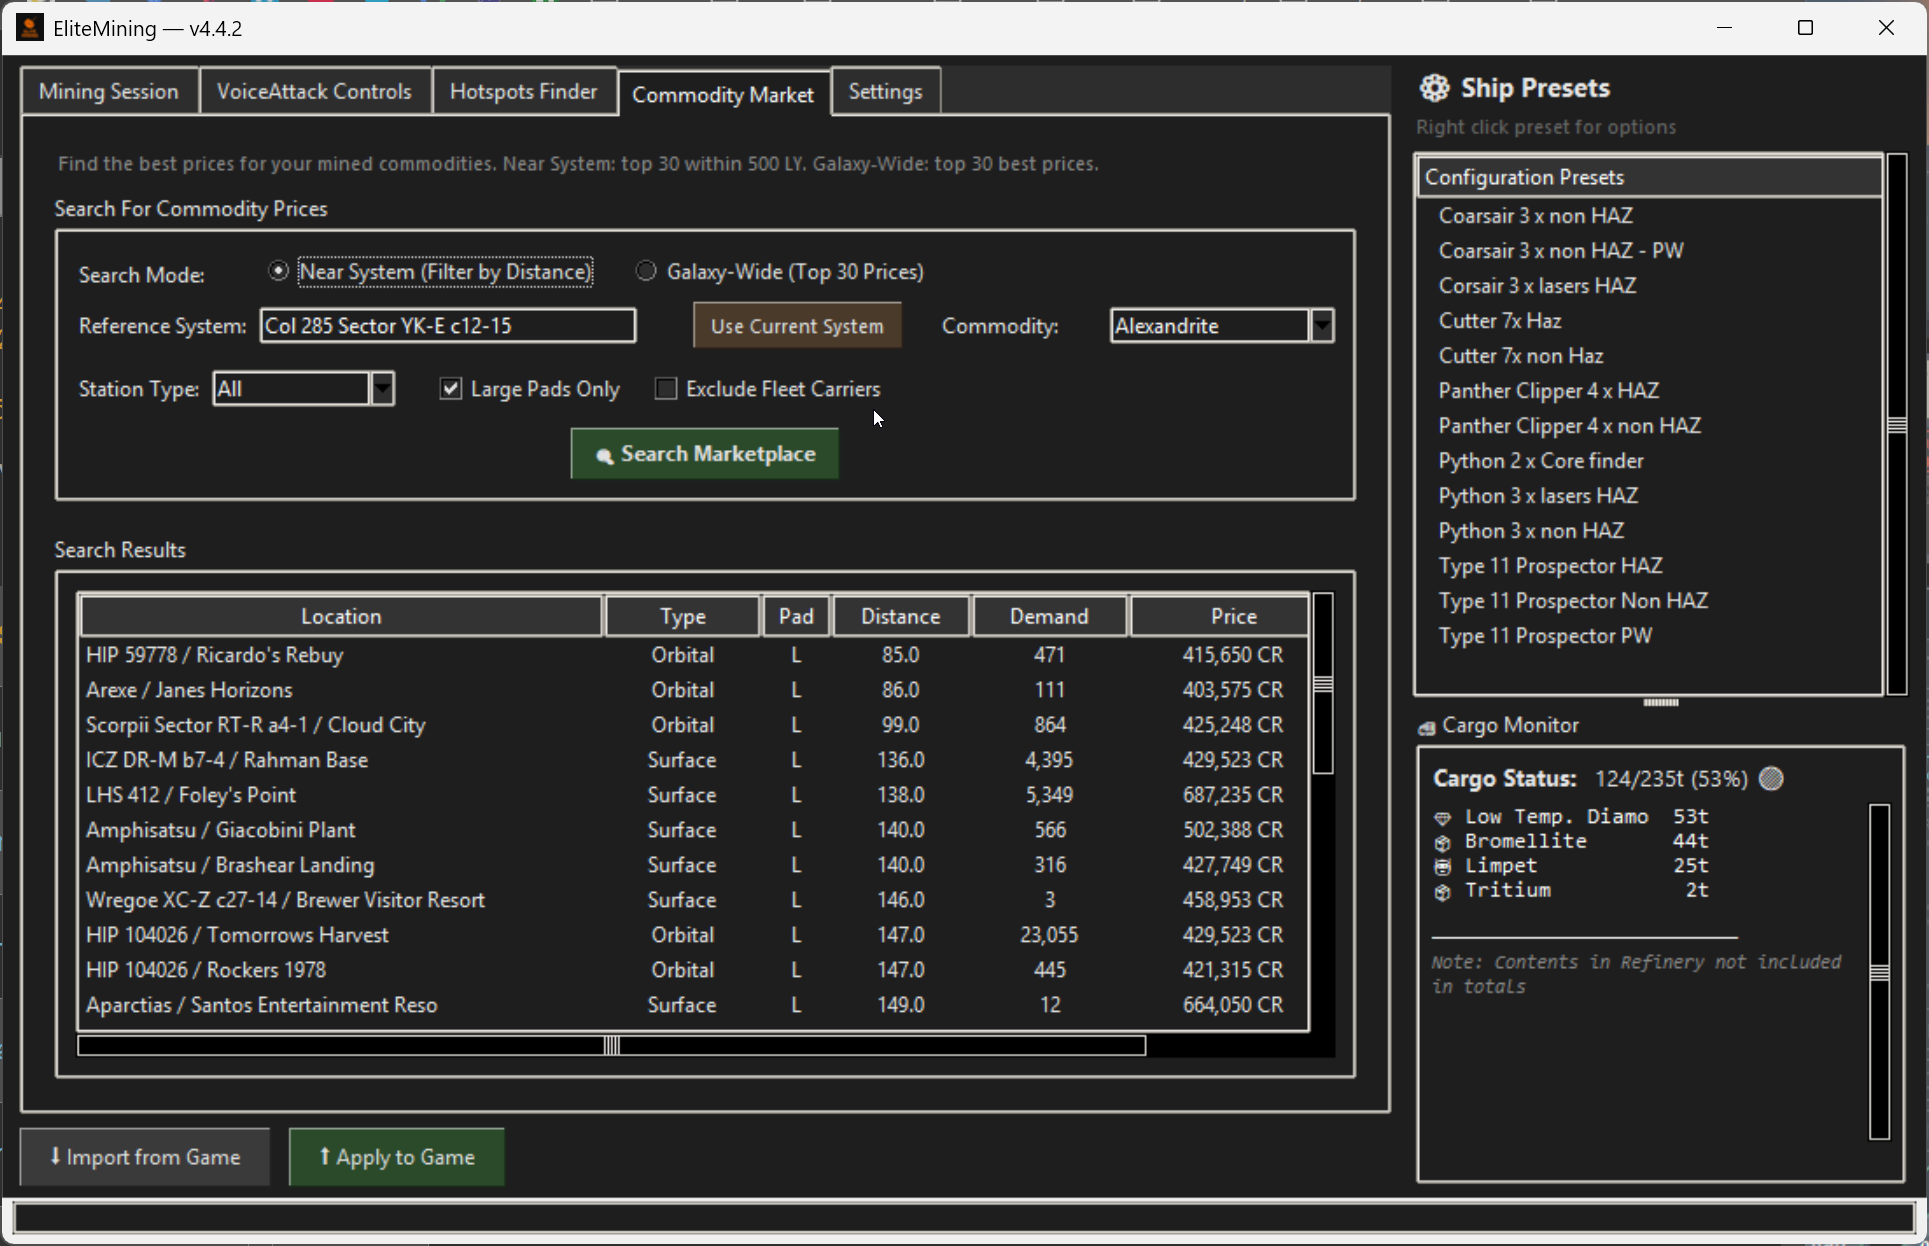
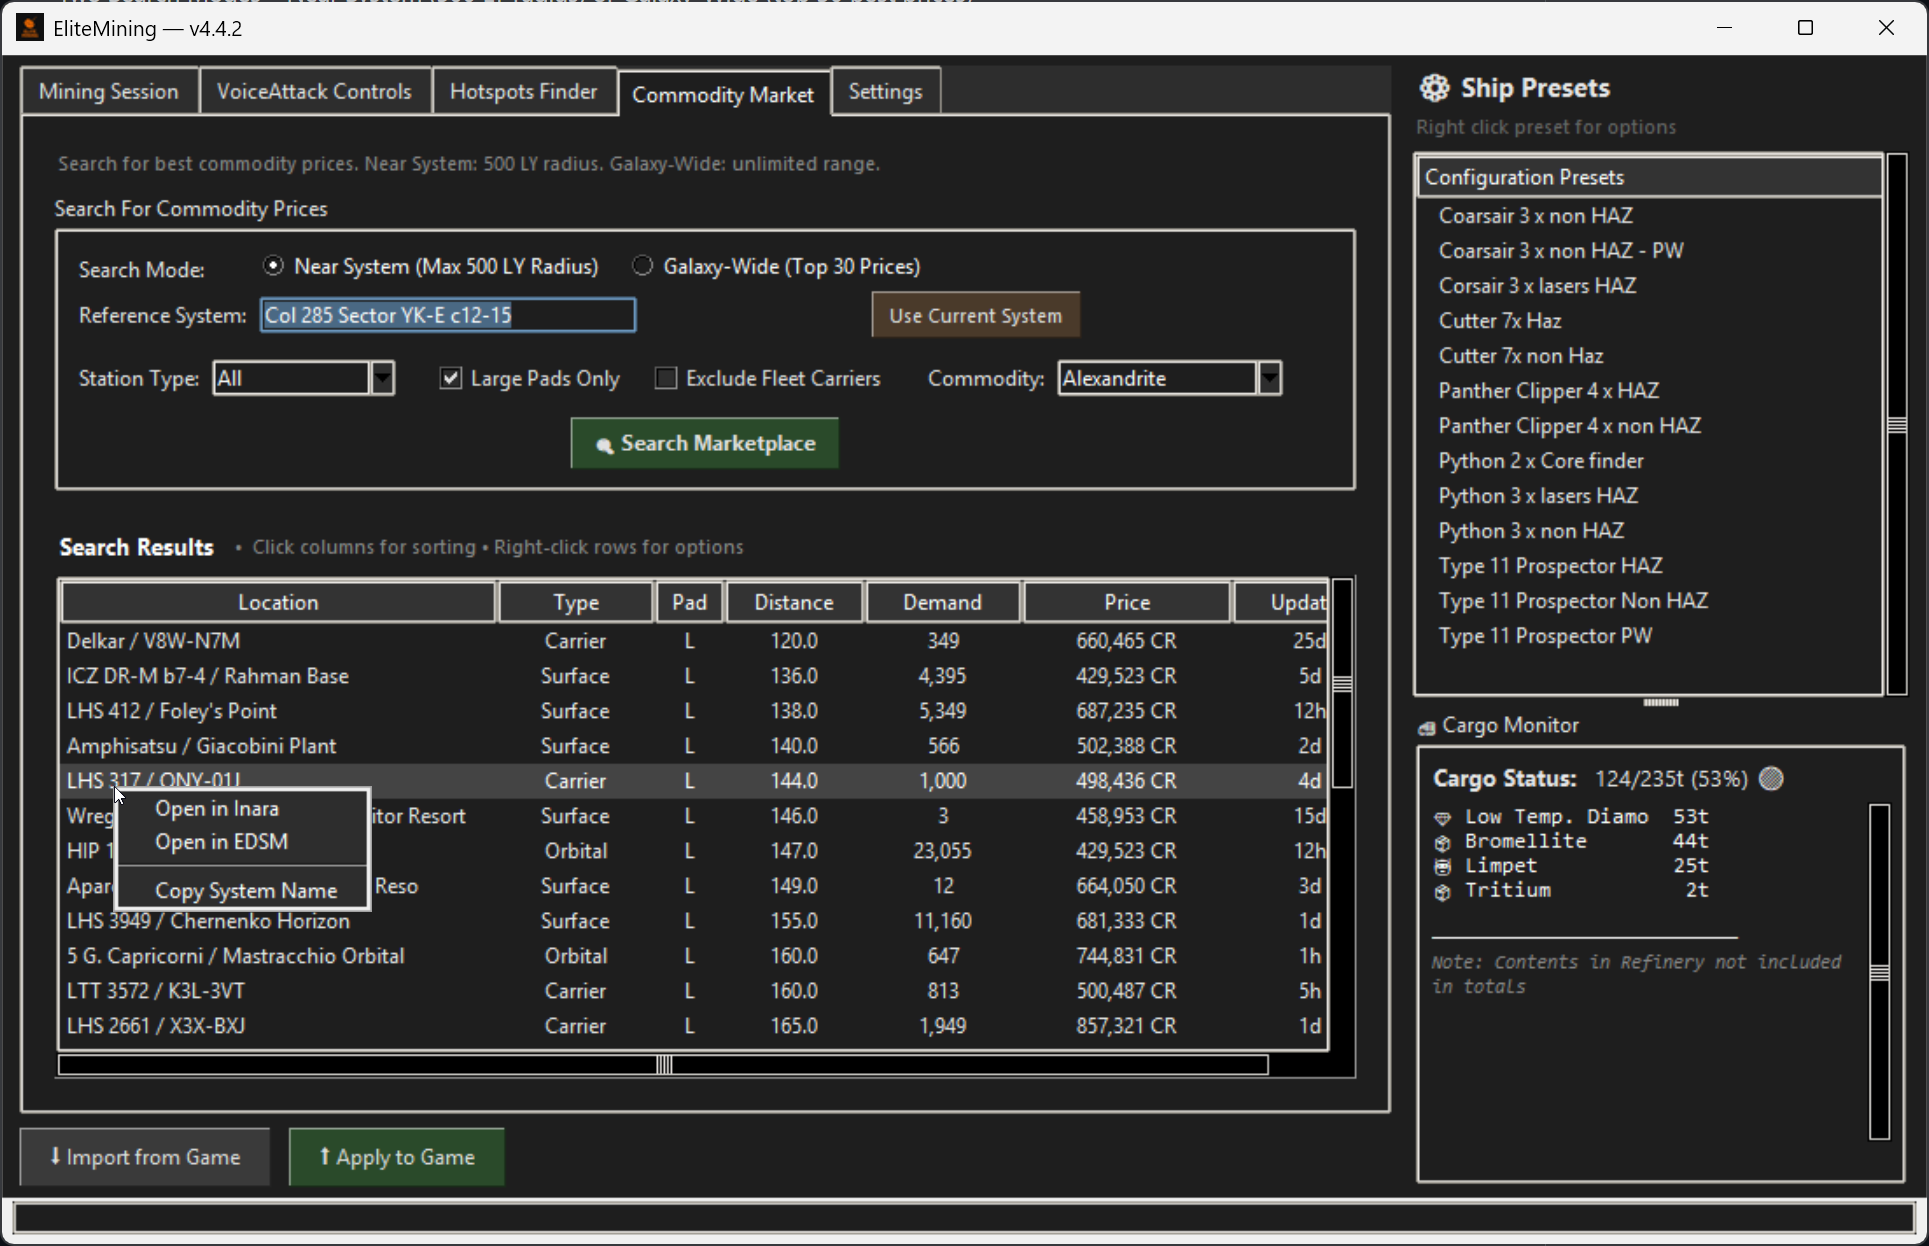
v4.4.2: Add external links and UI improvements
- Add right-click menu to Commodity Market results
- Open station in Inara (station search)
- Open system in EDSM (system search)
- Copy system name to clipboard
- Move Commodity dropdown to same row as checkboxes for compact layout
- Add MegaShip as separate station category with dedicated filter
- Update help text: 'Near System (Max 500 LY Radius)'
- Add 'Click columns for sorting • Right-click rows for options' help text
- Reduce Location column width from 300 to 250 pixels
- Fix radio button styling (remove focus border, add takefocus=0)
- Remove duplicate _create_marketplace_context_menu function
- Update README with External Links feature documentation
- Shorter help text: 'Search for best commodity prices. Near System: 500 LY radius. Galaxy-Wide: unlimited range.'

diff --git a/app/main.py b/app/main.py
@@ -8663,7 +8663,7 @@ class App(tk.Tk):
         help_frame.pack(fill="x", pady=(0, 10))
         
         help_text = ttk.Label(help_frame, 
-                             text="Find the best prices for your mined commodities. Near System: top 30 within 500 LY. Galaxy-Wide: top 30 best prices.",
+                             text="Search for best commodity prices. Near System: 500 LY radius. Galaxy-Wide: unlimited range.",
                              foreground="#888888",
                              font=("Segoe UI", 8))
         help_text.pack(anchor="w")
@@ -8685,17 +8685,23 @@ class App(tk.Tk):
         mode_frame = tk.Frame(search_frame, bg="#1e1e1e")
         mode_frame.grid(row=0, column=1, columnspan=3, sticky="w", pady=(0, 5))
         
-        tk.Radiobutton(mode_frame, text="Near System (Filter by Distance)", variable=self.marketplace_search_mode,
+        rb1 = tk.Radiobutton(mode_frame, text="Near System (Max 500 LY Radius)", variable=self.marketplace_search_mode,
                       value="near_system",
-                      bg="#1e1e1e", fg="#e0e0e0", selectcolor="#2d2d2d",
+                      bg="#1e1e1e", fg="#ffffff", selectcolor="#1e1e1e",
                       activebackground="#1e1e1e", activeforeground="#ffffff",
-                      font=("Segoe UI", 9)).pack(side="left", padx=(0, 15))
+                      highlightthickness=0, bd=0, relief="flat",
+                      font=("Segoe UI", 9))
+        rb1.pack(side="left", padx=(0, 15))
+        rb1.config(takefocus=0)
         
-        tk.Radiobutton(mode_frame, text="Galaxy-Wide (Top 30 Prices)", variable=self.marketplace_search_mode,
+        rb2 = tk.Radiobutton(mode_frame, text="Galaxy-Wide (Top 30 Prices)", variable=self.marketplace_search_mode,
                       value="galaxy_wide",
-                      bg="#1e1e1e", fg="#e0e0e0", selectcolor="#2d2d2d",
+                      bg="#1e1e1e", fg="#ffffff", selectcolor="#1e1e1e",
                       activebackground="#1e1e1e", activeforeground="#ffffff",
-                      font=("Segoe UI", 9)).pack(side="left")
+                      highlightthickness=0, bd=0, relief="flat",
+                      font=("Segoe UI", 9))
+        rb2.pack(side="left")
+        rb2.config(takefocus=0)
         
         # Row 1: Reference System with "Use Current System" button (only for "Near System" mode)
         self.marketplace_ref_label = ttk.Label(search_frame, text="Reference System:")
@@ -8717,23 +8723,7 @@ class App(tk.Tk):
                                     font=("Segoe UI", 8, "normal"), cursor="hand2")
         self.marketplace_use_current_btn.grid(row=1, column=2, sticky="w", padx=(5, 20))
         
-        ttk.Label(search_frame, text="Commodity:").grid(row=1, column=3, sticky="w", padx=(0, 5))
-        
-        self.marketplace_commodity = tk.StringVar(value="Alexandrite")
-        # Hardcoded list of common mining commodities (alphabetically sorted, LTD abbreviated for width)
-        sorted_commodities = ["Alexandrite", "Bauxite", "Benitoite", "Bertrandite", "Bromellite", 
-                             "Cobalt", "Coltan", "Gallite", "Gold", "Grandidierite", "Indite", 
-                             "Lepidolite", "LTD", "Monazite", "Musgravite", 
-                             "Osmium", "Painite", "Palladium", "Platinum", "Praseodymium", 
-                             "Rhodplumsite", "Rutile", "Samarium", "Serendibite", "Silver", 
-                             "Tritium", "Uraninite", "Void Opals"]
-        commodity_combo = ttk.Combobox(search_frame, textvariable=self.marketplace_commodity,
-                                     values=sorted_commodities,
-                                     state="readonly", width=18)
-        commodity_combo.grid(row=1, column=4, sticky="w")
-        
-        # Bind Enter key to trigger search on commodity combobox too
-        commodity_combo.bind("<Return>", lambda e: self._search_marketplace())
+        # Commodity dropdown will be moved to row 2 with checkboxes
         
         # Row 2: Station Type Filter + All Checkboxes on same row
         # Create a container frame for Station Type + Pads on left side
@@ -8777,7 +8767,26 @@ class App(tk.Tk):
                       variable=self.marketplace_exclude_carriers,
                       bg="#1e1e1e", fg="#e0e0e0", selectcolor="#2d2d2d",
                       activebackground="#1e1e1e", activeforeground="#ffffff",
-                      anchor="w").pack(side="left")
+                      anchor="w").pack(side="left", padx=(0, 20))
+        
+        # Commodity dropdown on same row, to the right
+        ttk.Label(pad_frame, text="Commodity:").pack(side="left", padx=(0, 5))
+        
+        self.marketplace_commodity = tk.StringVar(value="Alexandrite")
+        # Hardcoded list of common mining commodities (alphabetically sorted, LTD abbreviated for width)
+        sorted_commodities = ["Alexandrite", "Bauxite", "Benitoite", "Bertrandite", "Bromellite", 
+                             "Cobalt", "Coltan", "Gallite", "Gold", "Grandidierite", "Indite", 
+                             "Lepidolite", "LTD", "Monazite", "Musgravite", 
+                             "Osmium", "Painite", "Palladium", "Platinum", "Praseodymium", 
+                             "Rhodplumsite", "Rutile", "Samarium", "Serendibite", "Silver", 
+                             "Tritium", "Uraninite", "Void Opals"]
+        commodity_combo = ttk.Combobox(pad_frame, textvariable=self.marketplace_commodity,
+                                     values=sorted_commodities,
+                                     state="readonly", width=18)
+        commodity_combo.pack(side="left")
+        
+        # Bind Enter key to trigger search on commodity combobox
+        commodity_combo.bind("<Return>", lambda e: self._search_marketplace())
         
         # Row 3: Search button (centered)
         search_btn = tk.Button(search_frame, text="🔍 Search Marketplace", 
@@ -8794,9 +8803,20 @@ class App(tk.Tk):
         #                        bg="#2a4a2a", fg="#e0e0e0")
         # edtools_btn.grid(row=4, column=0, columnspan=5, pady=(5, 5))
         
-        # Results section
-        results_frame = ttk.LabelFrame(main_container, text="Search Results", padding=10)
-        results_frame.pack(fill="both", expand=True, pady=(10, 0))
+        # Results section with help text on same line as label
+        results_header = tk.Frame(main_container, bg="#1e1e1e")
+        results_header.pack(fill="x", pady=(10, 0))
+        
+        tk.Label(results_header, text="Search Results", 
+                bg="#1e1e1e", fg="#ffffff", 
+                font=("Segoe UI", 10, "bold")).pack(side="left")
+        
+        tk.Label(results_header, text="  •  Click columns for sorting • Right-click rows for options",
+                bg="#1e1e1e", fg="#888888",
+                font=("Segoe UI", 8)).pack(side="left")
+        
+        results_frame = tk.Frame(main_container, bg="#2d2d2d", relief="sunken", bd=1)
+        results_frame.pack(fill="both", expand=True, pady=(5, 0))
         
         # Create results table
         self._create_marketplace_results_table(results_frame)
@@ -8833,7 +8853,7 @@ class App(tk.Tk):
         self.marketplace_sort_reverse = False
         
         # Set column widths - Location left-aligned, all others centered
-        self.marketplace_tree.column("location", width=300, minwidth=150, anchor="w", stretch=False)
+        self.marketplace_tree.column("location", width=250, minwidth=150, anchor="w", stretch=False)
         self.marketplace_tree.column("type", width=90, minwidth=70, anchor="center", stretch=False)
         self.marketplace_tree.column("pad", width=40, minwidth=40, anchor="center", stretch=False)
         self.marketplace_tree.column("distance", width=80, minwidth=60, anchor="center", stretch=False)
@@ -8878,7 +8898,52 @@ class App(tk.Tk):
                                                activebackground=MENU_COLORS["activebackground"],
                                                activeforeground=MENU_COLORS["activeforeground"],
                                                selectcolor=MENU_COLORS["selectcolor"])
+        self.marketplace_context_menu.add_command(label="Open in Inara", command=self._open_inara_from_menu)
+        self.marketplace_context_menu.add_command(label="Open in EDSM", command=self._open_edsm_from_menu)
+        self.marketplace_context_menu.add_separator()
         self.marketplace_context_menu.add_command(label="Copy System Name", command=self._copy_marketplace_system)
+    
+    def _open_inara_from_menu(self):
+        """Open Inara station search from context menu"""
+        selection = self.marketplace_tree.selection()
+        if selection:
+            try:
+                item = selection[0]
+                values = self.marketplace_tree.item(item, 'values')
+                if values and len(values) > 0:
+                    location = values[0]  # "System / Station"
+                    if ' / ' in location:
+                        system_name, station_name = location.split(' / ', 1)
+                        # URL encode station name using quote_plus (converts spaces to +)
+                        import urllib.parse
+                        encoded_station = urllib.parse.quote_plus(station_name.strip())
+                        url = f"https://inara.cz/elite/stations/?search={encoded_station}"
+                        import webbrowser
+                        webbrowser.open(url)
+                        print(f"[MARKETPLACE] Opening Inara for station: {station_name}")
+            except Exception as e:
+                print(f"[MARKETPLACE] Error opening Inara: {e}")
+    
+    def _open_edsm_from_menu(self):
+        """Open EDSM station search from context menu"""
+        selection = self.marketplace_tree.selection()
+        if selection:
+            try:
+                item = selection[0]
+                values = self.marketplace_tree.item(item, 'values')
+                if values and len(values) > 0:
+                    location = values[0]  # "System / Station"
+                    if ' / ' in location:
+                        system_name, station_name = location.split(' / ', 1)
+                        # URL encode station name using quote (no + for EDSM)
+                        import urllib.parse
+                        encoded_station = urllib.parse.quote(station_name.strip())
+                        url = f"https://www.edsm.net/en/search/stations/index/name/{encoded_station}/"
+                        import webbrowser
+                        webbrowser.open(url)
+                        print(f"[MARKETPLACE] Opening EDSM for station: {station_name}")
+            except Exception as e:
+                print(f"[MARKETPLACE] Error opening EDSM: {e}")
     
     def _show_marketplace_context_menu(self, event):
         """Show context menu on right-click"""
@@ -9759,14 +9824,7 @@ class App(tk.Tk):
         # Default to medium for most other stations
         return "M"
     
-    def _create_marketplace_context_menu(self):
-        """Create the right-click context menu for marketplace results"""
-        self.marketplace_context_menu = tk.Menu(self, tearoff=0,
-                                               bg=MENU_COLORS["bg"], fg=MENU_COLORS["fg"],
-                                               activebackground=MENU_COLORS["activebackground"], 
-                                               activeforeground=MENU_COLORS["activeforeground"],
-                                               selectcolor=MENU_COLORS["selectcolor"])
-        self.marketplace_context_menu.add_command(label="Copy System Name", command=self._copy_marketplace_system_name)
+
     
     def _show_marketplace_context_menu(self, event):
         """Show the context menu when right-clicking on marketplace results"""

diff --git a/README.md b/README.md
@@ -164,6 +164,10 @@ The Commodity Market helps you find the best sell prices for your mined commodit
 - **Data Freshness** – Shows when prices were last updated (minutes/hours/days ago)
 - **Sortable Results** – Click column headers to sort by location, type, distance, demand, or price
 - **Threaded Updates** – Results appear instantly with distances calculated in background for smooth performance
+- **External Links** – Right-click any search result to:
+  - Open station in Inara (station search)
+  - Open system in EDSM (system page with all stations)
+  - Copy system name to clipboard
 
 Perfect for planning your mining runs and finding the most profitable stations to sell your haul.
 
